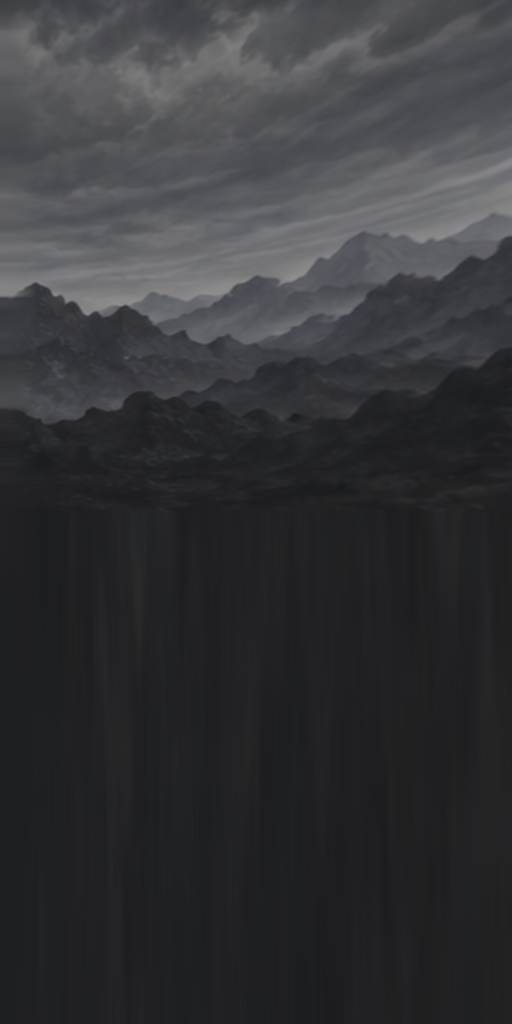
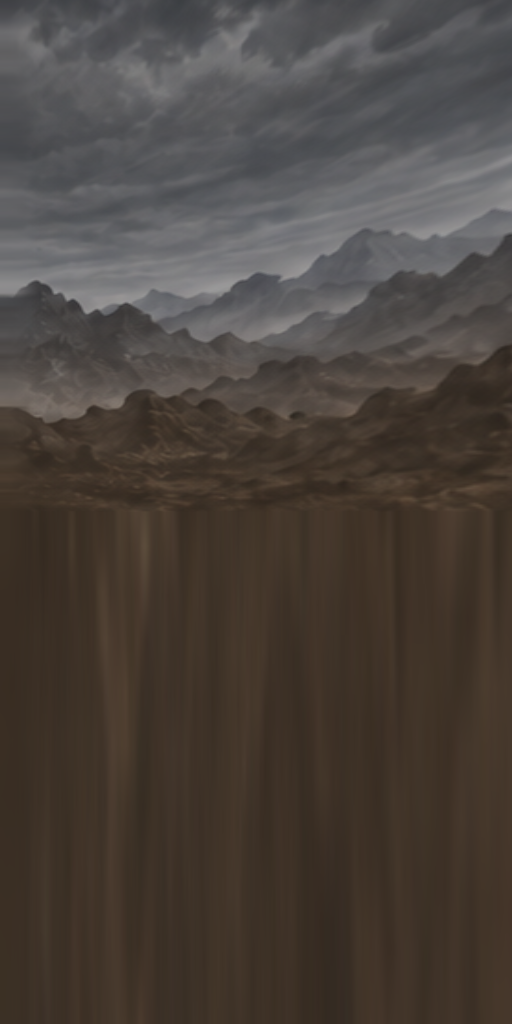
Add multiplayer-safe ZDCMP1 sky parallax and mountain depth colours

diff --git a/tools/test_zdcmp1_sky_parallax.py b/tools/test_zdcmp1_sky_parallax.py
@@ -1,0 +1,67 @@
+"""Two real peers: independent sky parallax, viewer switches, shared world clock."""
+from pathlib import Path
+import argparse,json,re,socket,subprocess,time,zipfile
+ROOT=Path(__file__).resolve().parents[1]
+
+def main():
+    ap=argparse.ArgumentParser(description=__doc__)
+    ap.add_argument('--engine',default='F:/DoomDev/uzdoom.exe')
+    ap.add_argument('--iwad',default='F:/DoomDev/DOOM2.WAD')
+    ap.add_argument('--mod',type=Path,default=ROOT/'zdcmp1.pk3')
+    args=ap.parse_args()
+    logs=ROOT/'tutnt/.codex/logs/zdc-sky-parallax-coop';logs.mkdir(parents=True,exist_ok=True)
+    addon=ROOT/'tutnt/.codex/builds/zdc-sky-parallax-qa.pk3'
+    with zipfile.ZipFile(addon,'w') as z:
+        z.write(ROOT/'tools/zdcmp1-tests/sky-parallax.zc','zscript.zc')
+        z.writestr('mapinfo.txt','gameinfo { AddEventHandlers="ZDCSkyParallaxQA" }')
+    with socket.socket(socket.AF_INET,socket.SOCK_DGRAM) as s:
+        s.bind(('127.0.0.1',0));port=s.getsockname()[1]
+    peers=[];results=[];views=[];states=[]
+    si=subprocess.STARTUPINFO();si.dwFlags|=subprocess.STARTF_USESHOWWINDOW;si.wShowWindow=0
+    try:
+        for i in range(2):
+            cfg=logs/f'peer-{i}.ini'
+            cfg.write_text('[GlobalSettings]\nvid_fullscreen=false\nwin_w=800\nwin_h=500\nvid_maxfps=60\ni_pauseinbackground=false\nvid_activeinbackground=true\n')
+            script=logs/f'peer-{i}.cfg'
+            script.write_text('wait 600; quit\n')
+            log=logs/f'peer-{i}.log';out=log.open('wb')
+            command=[args.engine,'-iwad',args.iwad,'-file',str(args.mod.resolve()),str(addon),'-config',str(cfg),'-noautoload','-nosound','-stdout','-noidle','-rngseed','667','+vid_fullscreen','false','+vid_preferbackend','1','+use_mouse','false','+use_joystick','false','+map','MAP01','+exec',str(script)]
+            command+=['-host','2','-port',str(port)] if i==0 else ['-join',f'127.0.0.1:{port}']
+            child=subprocess.Popen(command,cwd=logs,stdout=out,stderr=subprocess.STDOUT,startupinfo=si,creationflags=subprocess.CREATE_NO_WINDOW)
+            peers.append((child,out,log))
+            if i==0:time.sleep(1)
+        deadline=time.monotonic()+55
+        while time.monotonic()<deadline:
+            texts=[log.read_text(errors='replace') for _,_,log in peers]
+            if all('SKY_PARALLAX_COMPLETE' in t for t in texts):break
+            if any('Script error,' in t or 'VM execution aborted' in t for t in texts):break
+            if all(p.poll() is not None for p,_,_ in peers):break
+            time.sleep(.2)
+        for i,(_,_,log) in enumerate(peers):
+            text=log.read_text(errors='replace')
+            errors=[s for s in ('SKY_ASSERT FAIL','VM execution aborted','Script error,','consistency failure','out of sync','mismatched client-side handling') if s.lower() in text.lower()]
+            records=re.findall(r'SKY_VIEW (\d+) (\d+) ([-.\d]+) ([-.\d]+) ([-.\d]+) ([-.\d]+) ([-.\d]+) ([-.\d]+)',text)
+            views.append({int(r[1]):tuple(map(float,r[2:])) for r in records})
+            sync=re.search(r'SKY_SYNC (.*)',text);states.append(sync[1] if sync else None)
+            results.append(dict(peer=i,ok='SKY_PARALLAX_COMPLETE' in text and not errors and text.count('SKY_ASSERT PASS')==20,assertions=text.count('SKY_ASSERT PASS'),errors=errors))
+        independent=all(len(v)==5 for v in views)
+        if independent:
+            a,b=views
+            independent=(a[160]!=b[160] and a[160]!=a[240] and b[160]==b[240]
+                         and a[240]==a[320] and b[240]!=b[320]
+                         and a[380]==b[320] and b[380]==a[320]
+                         and a[440]==a[320] and b[440]==b[320])
+        for r in results:
+            r.update(independent_viewpoints=independent,synchronized_world=states[0] is not None and states[0]==states[1])
+            r['ok'] &= independent and r['synchronized_world']
+    finally:
+        for p,out,_ in peers:
+            if p.poll() is None:p.terminate()
+            try:p.wait(timeout=5)
+            except subprocess.TimeoutExpired:p.kill();p.wait()
+            out.close()
+    report=dict(results=results,views=views,world_states=states)
+    (ROOT/'tutnt/.codex/validation/zdc-sky-parallax-coop.json').write_text(json.dumps(report,indent=2))
+    print(json.dumps(report,indent=2))
+    return 0 if len(results)==2 and all(r['ok'] for r in results) else 1
+if __name__=='__main__':raise SystemExit(main())

diff --git a/_docs/zdcmp1/REMASTER.md b/_docs/zdcmp1/REMASTER.md
@@ -59,6 +59,33 @@ without hiding cloud detail. The Hell wall ring faces inward, like the outdoor
 ring. Only these isolated camera-room vertices were corrected; gameplay
 geometry, SkyPickers, ACS and the serialized day/night/storm clock are unchanged.
 
+The outdoor panorama grades its nearest mountain chains toward warm brown
+`#64523E`, the farthest toward cool grey `#424449`, with intermediate ridges
+and haze preserving depth. The editable Imagegen source and exact edit prompt
+are stored in `zdcmp1/source/art/skybox/outdoor-source.png` and
+`outdoor-depth-color.txt`. The hex values describe base material colours;
+lighting and atmospheric haze vary individual pixels.
+
+Both sky viewpoints have bounded translational parallax, managed by
+`ZDCMP1SkyParallax`, a nonserialized client-side thinker. Each client reads its
+own current camera, including a spectated player, and offsets only the two
+noninteractive native SkyViewpoints. No player position, geometry, sector
+colour, portal assignment, random stream or shared weather clock is changed.
+The horizontal response starts at 1/384 of world motion and smoothly saturates
+at a 24-unit radius; vertical response starts at 1/768 and saturates at 8 units.
+Authored origins and fixed world anchors prevent save/load drift. Teleports
+and viewer changes clear interpolation; ordinary movement interpolates.
+The same camera path works for hardware and software rendering.
+
+The focused multiplayer test `tools/test_zdcmp1_sky_parallax.py` launches two
+real peers. It checks independent positions in both skies, one player moving
+while the other remains still, spectator camera swaps and matching world
+clocks, with 20 assertions per peer. It writes local evidence under `.codex`.
+The revision was also checked in UZDoom 5.0.3 on Vulkan, OpenGL and software,
+with day/night/storm screenshots. Save/load and MAP01 -> MAP02 -> MAP01
+retain exactly one local camera controller and reproduce the same offsets.
+Software retains its existing palette/lighting limitations.
+
 Each cap has eight ANIMDEFS frames. A separately generated, tileable
 cloud mask shifts by at most 16 pixels across those frames and modulates
 only the cap interior. Each frame lasts 20 tics. The layer moves gently;
